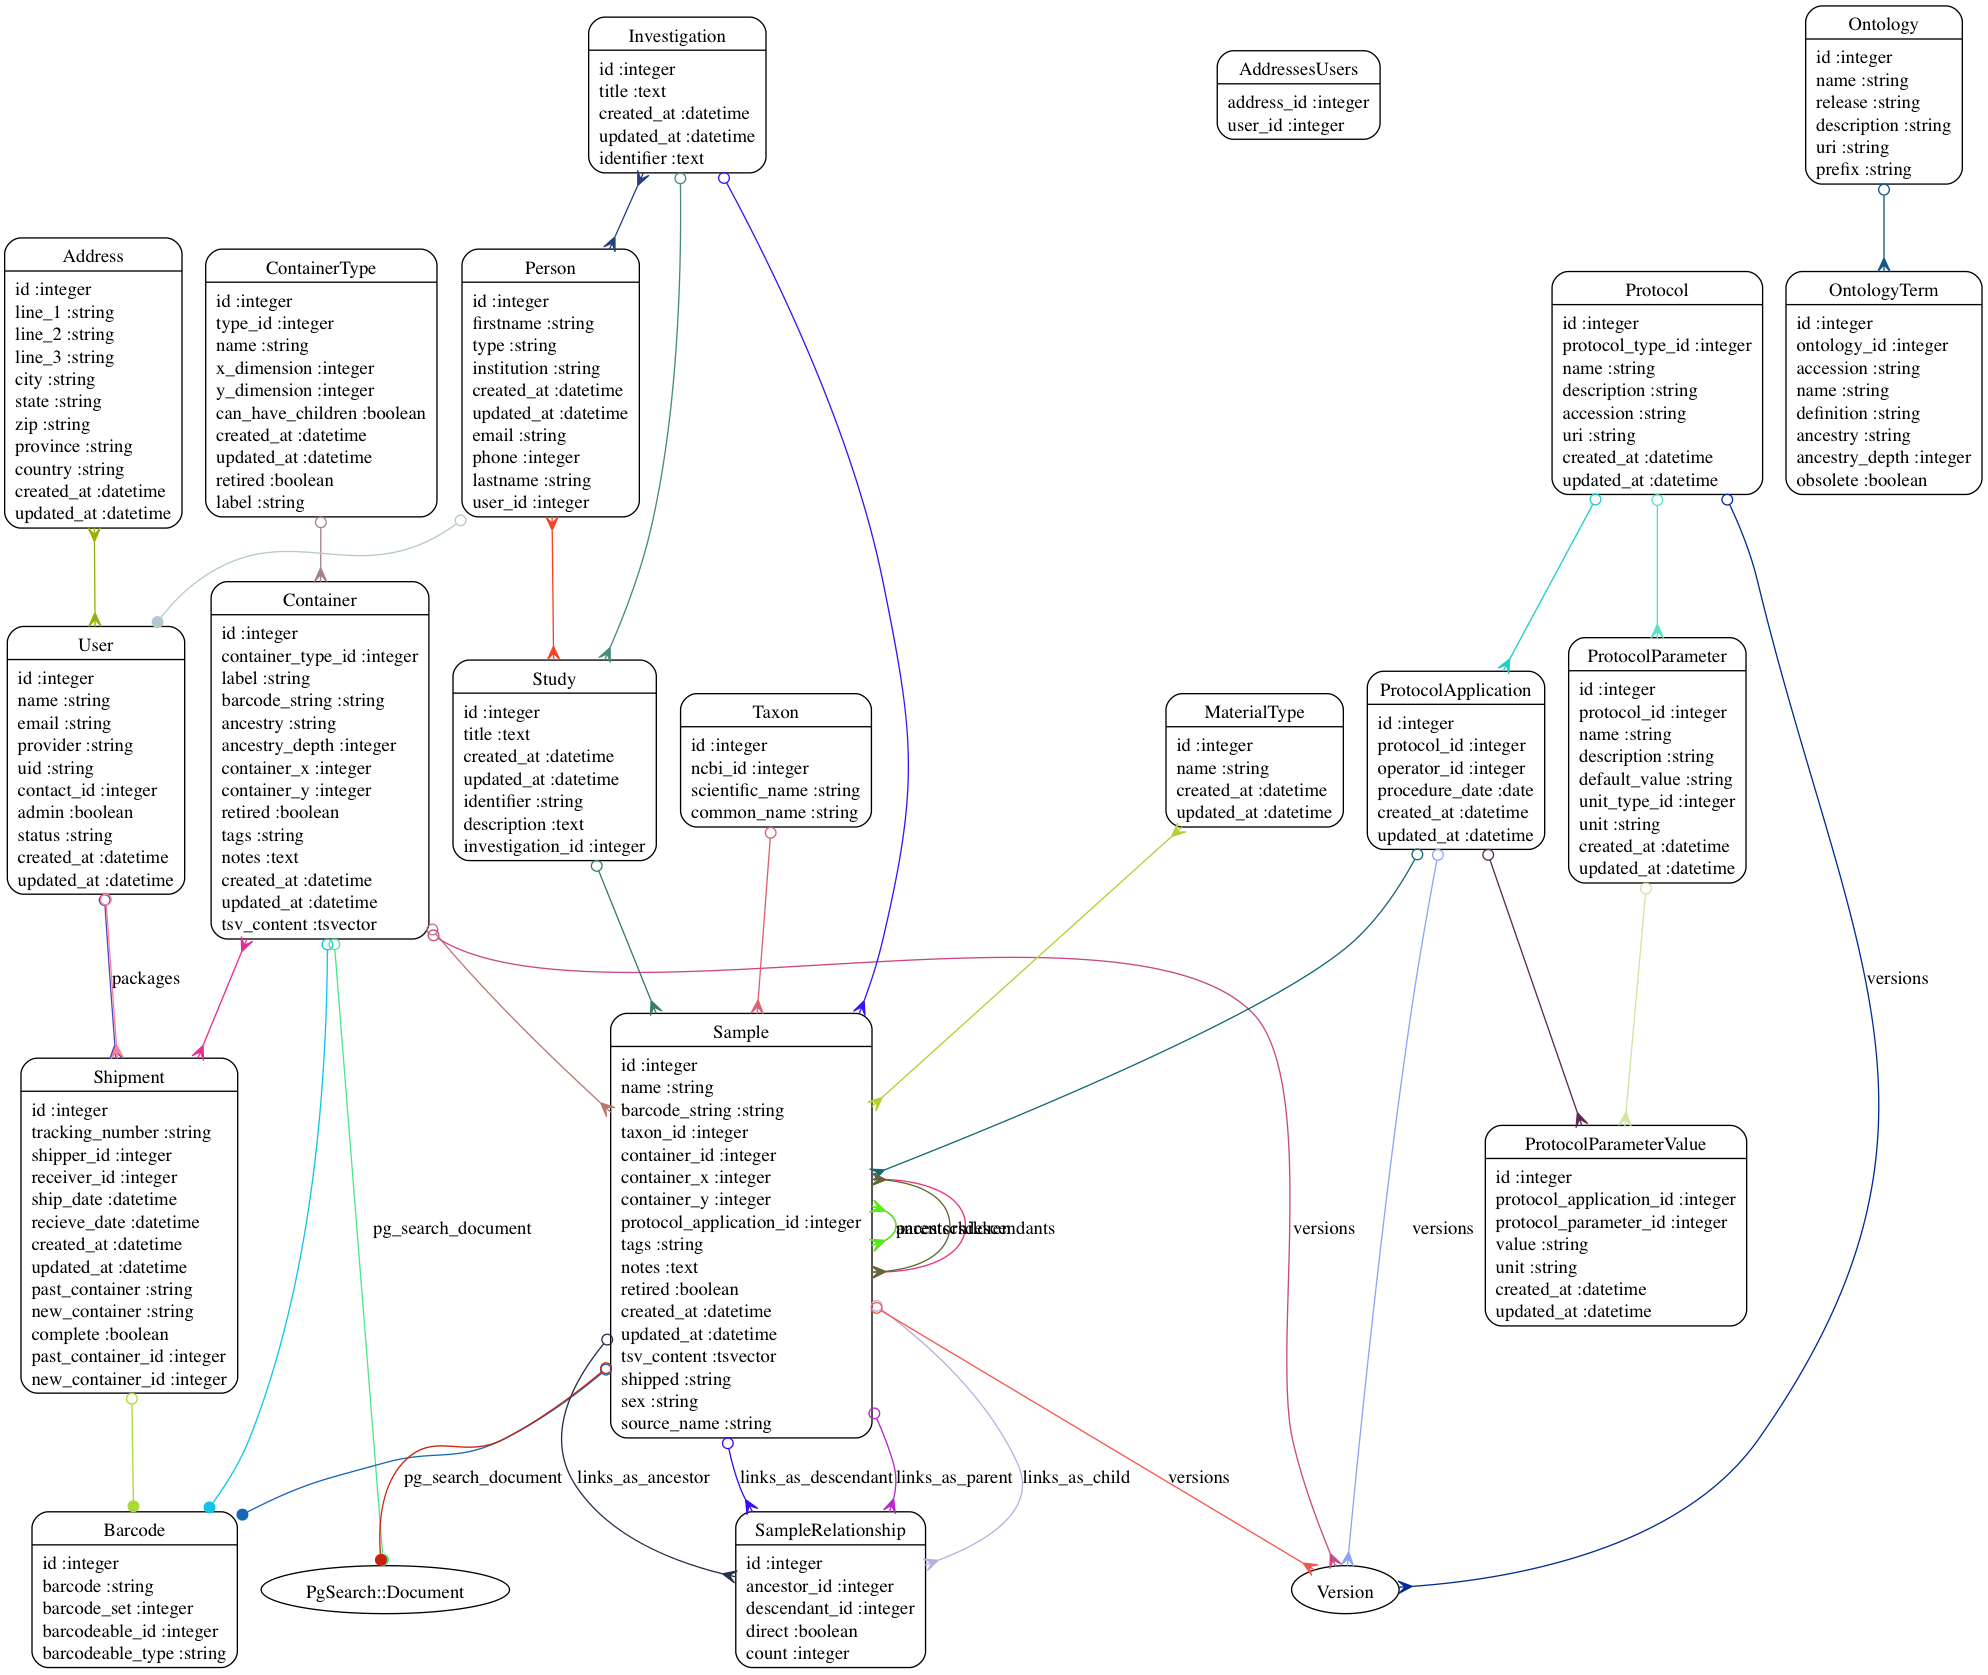
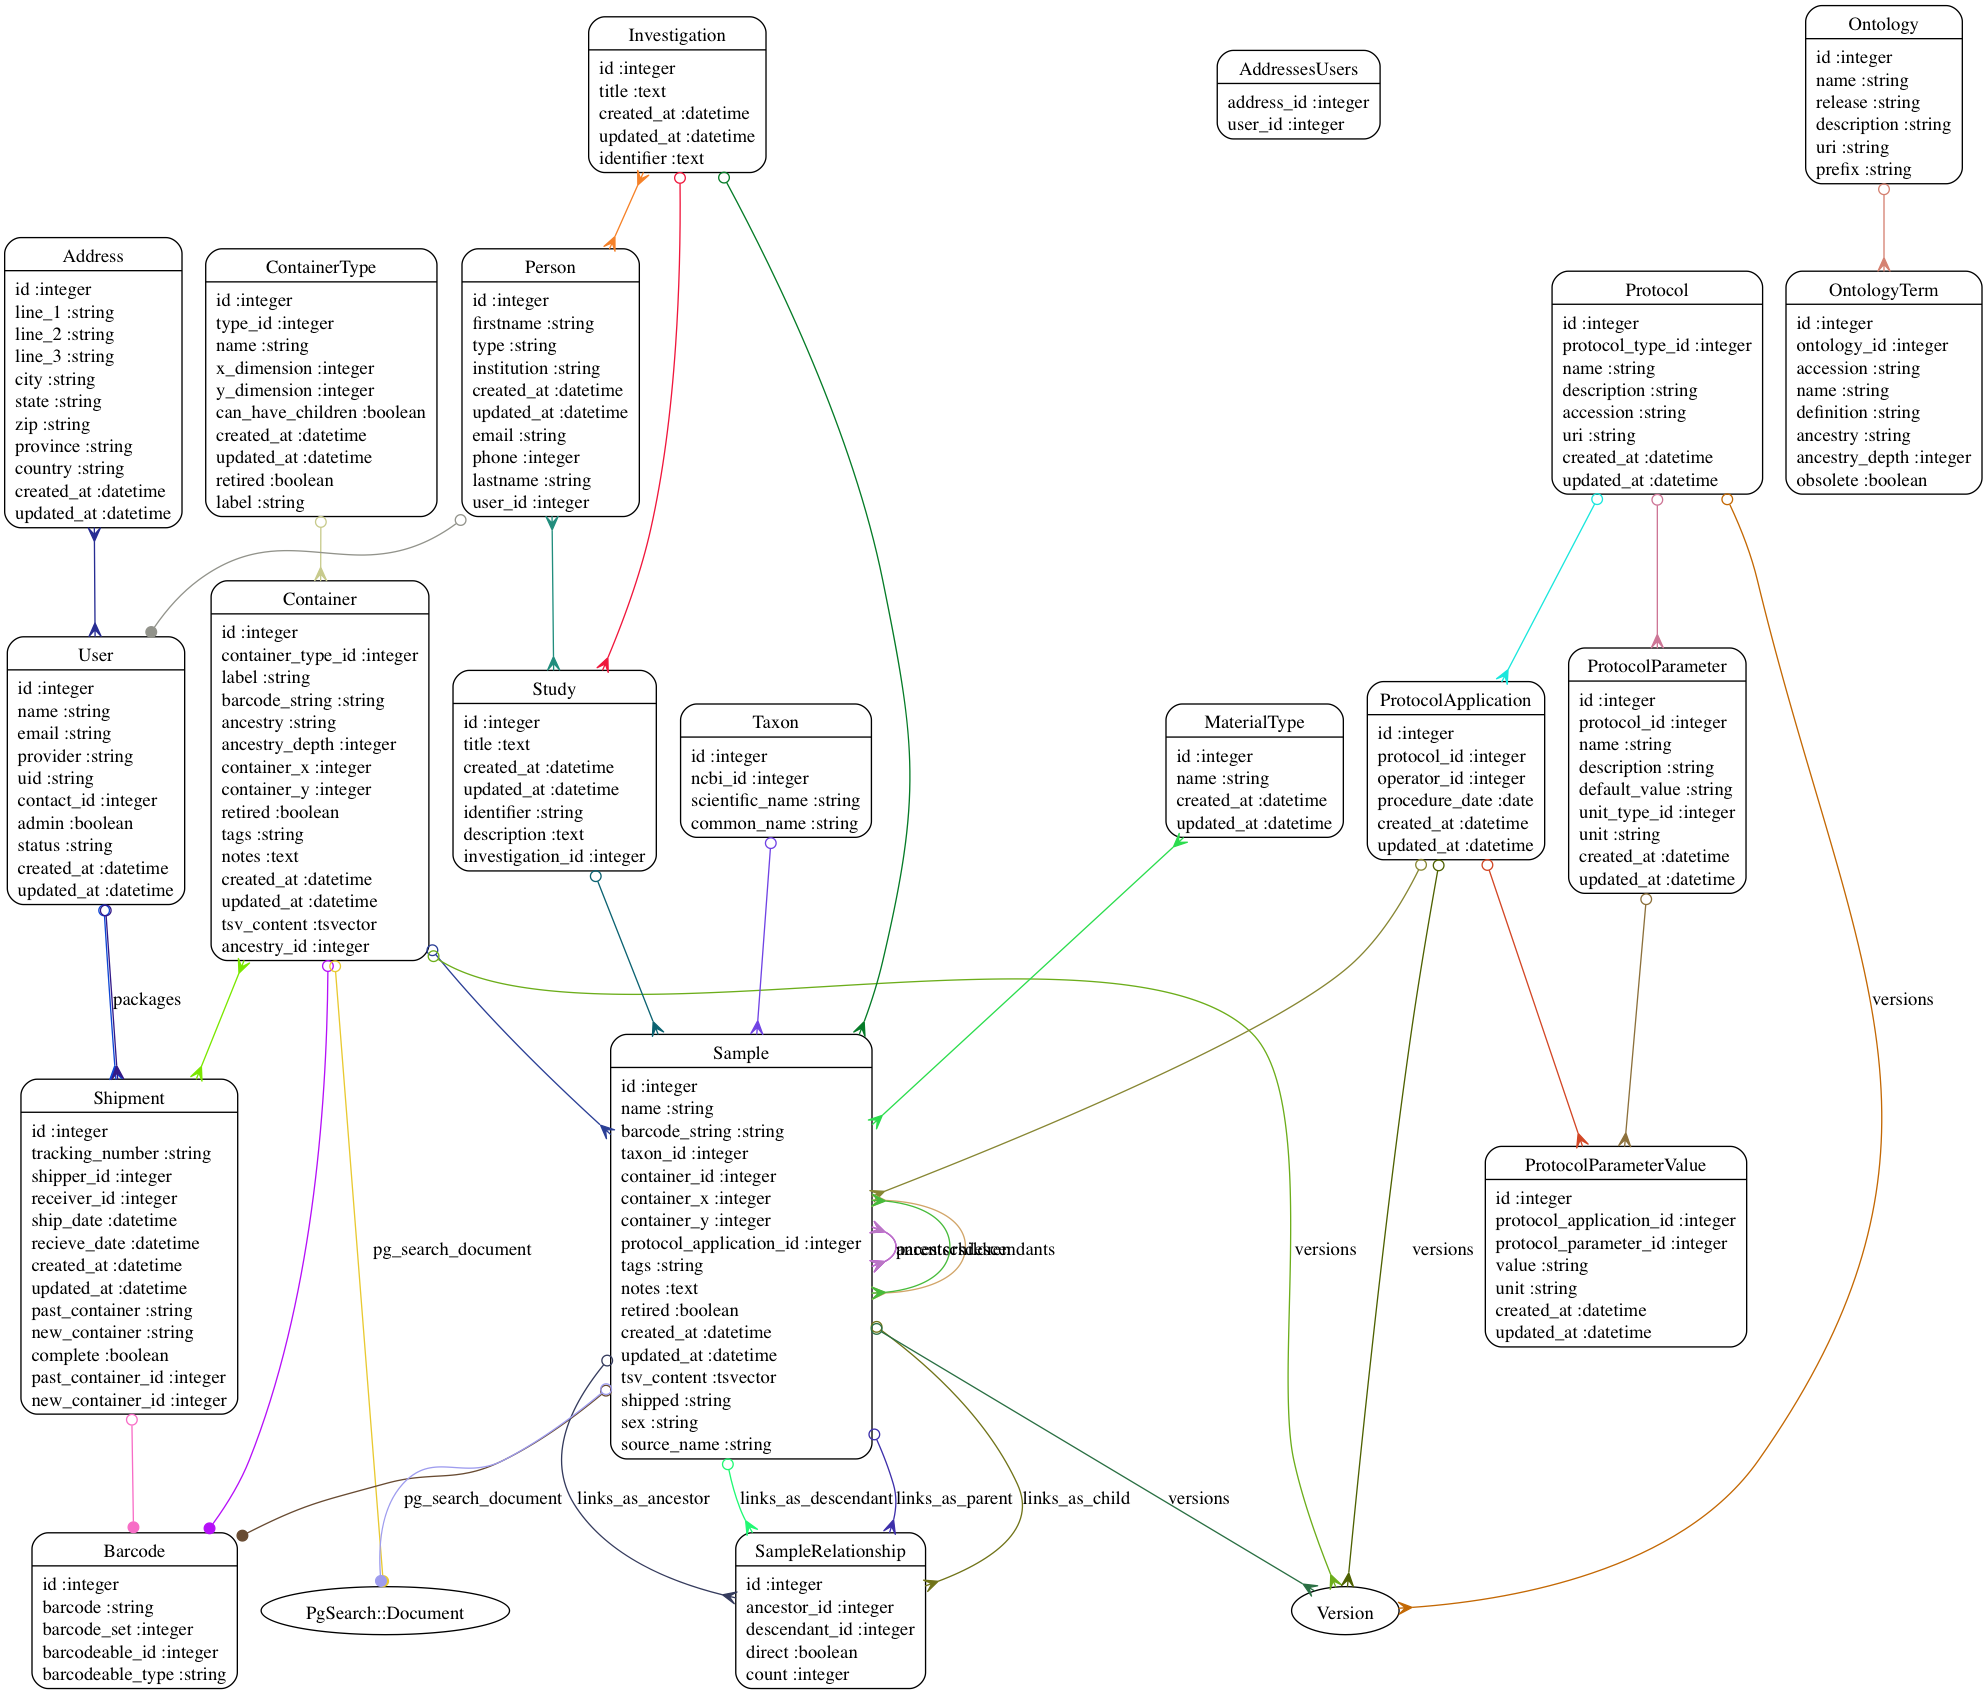
Fix self joins for container, using the ancestry gem. Add export-to-csv function for the search results, using roo.

diff --git a/app/models/container.rb b/app/models/container.rb
@@ -4,7 +4,7 @@
 #
 #  id                :integer          not null, primary key
 #  container_type_id :integer
-#  label             :string(255)
+#  name              :string(255)
 #  barcode_string    :string(255)
 #  ancestry          :string(500)
 #  ancestry_depth    :integer          default(0)
@@ -16,23 +16,18 @@
 #  created_at        :datetime         not null
 #  updated_at        :datetime         not null
 #  tsv_content       :tsvector
-#  ancestry_id       :integer
 #
 
 class Container < ActiveRecord::Base
-    attr_accessible :label, :barcode,
+    attr_accessible :name, :barcode,
         :ancestry, :container_x, :container_y,
         :container_type_name, :container_type, :container_type_id,
-        :retired, :tags, :notes, :ancestry_id
+        :retired, :tags, :notes, :parent_id
 
     belongs_to :container_type, inverse_of: :containers
     has_many :samples
     has_one :barcode, as: :barcodeable
     has_and_belongs_to_many :shipments
-
-    # TOFIX
-    # has_many :ancestry_containers, :class_name => "Container", foreign_key => "ancestry_id"
-    # belongs_to :ancestry, :class_name => "Container", foreign_key => "ancestry_id"
 
     # parent-child-sibling relationships
     has_ancestry :orphan_strategy => :rootify, :cache_depth => true
@@ -44,23 +39,39 @@ class Container < ActiveRecord::Base
 
     # some handy methods
     alias_method :container, :parent
-    def container_type_name
+    
+	def container_type_name
         container_type.name
     end
 
     def to_s
-        "[#{barcode.barcode}] #{name} (#{container_type.name})"
+        "[#{barcode.barcode}] #{name} (#{container_type_name})"
     end
 
     def show_location?
         container_type.x_dimension * container_type.y_dimension > 1
     end
-	
-    alias_attribute :name, :label
-	# def name
-	# 	label
-	# end
 
+	def self.arrange_as_array(options={}, hash=nil)                                                                                                                                                            
+		hash ||= arrange(options)
+
+		arr = []
+		hash.each do |node, children|
+			arr << node
+			arr += arrange_as_array(options, children) unless children.nil?
+		end
+		arr
+	end
+
+	def name_for_selects
+		"#{'-' * depth} #{name}"
+	end
+
+	def possible_parents
+		parents = Container.arrange_as_array(:order => 'name')
+		return new_record? ? parents : parents - subtree
+	end
+	
     # Collects the associated samples or child containers into a
     # 2D Array sparse matrix
     def container_matrix
@@ -81,7 +92,7 @@ class Container < ActiveRecord::Base
         self.barcode = bc
     end
 
-    # Full text search of samples
+    # Full text search of containers
     include PgSearch
     multisearchable against: [:name, :barcode_string, :tags, :notes],
         using: {

diff --git a/app/controllers/search_controller.rb b/app/controllers/search_controller.rb
@@ -4,4 +4,17 @@ class SearchController < ApplicationController
         authorize! :index, PgSearch::Document
         @results = PgSearch.multisearch(params[:query]).page(params[:page] || 1).per_page(params[:per_page] || 25)
     end
+
+    def fetch
+	    if params[:all]
+	    	@results = PgSearch.multisearch(params[:query]).all
+	    else
+	    	@results = PgSearch.multisearch(params[:query]).page(params[:page] || 1).per_page(params[:per_page] || 25)
+	    end
+
+		respond_to do |format|
+			format.html
+			format.csv { render file: 'search/fetch.csv.haml', content_type: "text/csv", filename: "#{params[:query]}.csv"}
+		end
+	end
 end

diff --git a/app/controllers/containers_controller.rb b/app/controllers/containers_controller.rb
@@ -1,6 +1,6 @@
 class ContainersController < ApplicationController
     load_and_authorize_resource includes: [:barcode,:container_type]
-
+	
     def index
         @containers = @containers.includes([:barcode,:container_type]).order(:created_at)
         unless params[:show_all]
@@ -22,6 +22,7 @@ class ContainersController < ApplicationController
     end
     def edit
         @container = Container.includes(:barcode, :container_type).find(@container)
+		@containers = Container.arrange_as_array({:order => 'name'}, @container.possible_parents)
     end
     def update
         if @container.update_attributes(params[:container])

diff --git a/test/unit/container_test.rb b/test/unit/container_test.rb
@@ -4,7 +4,7 @@
 #
 #  id                :integer          not null, primary key
 #  container_type_id :integer
-#  label             :string(255)
+#  name              :string(255)
 #  barcode_string    :string(255)
 #  ancestry          :string(500)
 #  ancestry_depth    :integer          default(0)
@@ -16,7 +16,6 @@
 #  created_at        :datetime         not null
 #  updated_at        :datetime         not null
 #  tsv_content       :tsvector
-#  ancestry_id       :integer
 #
 
 require 'test_helper'

diff --git a/app/models/container_type.rb b/app/models/container_type.rb
@@ -18,7 +18,7 @@ class ContainerType < ActiveRecord::Base
     attr_accessible :name, :type, :type_id,
         :x_dimension, :parent_x,
         :y_dimension, :parent_y,
-        :can_have_children, :retired, :name
+        :can_have_children, :retired
 
     belongs_to :type, class_name: "OntologyTerm", foreign_key: "type_id"
     has_many :containers, inverse_of: :container_types

diff --git a/db/migrate/20140219034759_modify_container.rb b/db/migrate/20140219034759_modify_container.rb
@@ -1,0 +1,6 @@
+class ModifyContainer < ActiveRecord::Migration
+  def change
+	rename_column :containers, :label, :name
+  	remove_column :containers, :ancestry_id
+  end
+end
